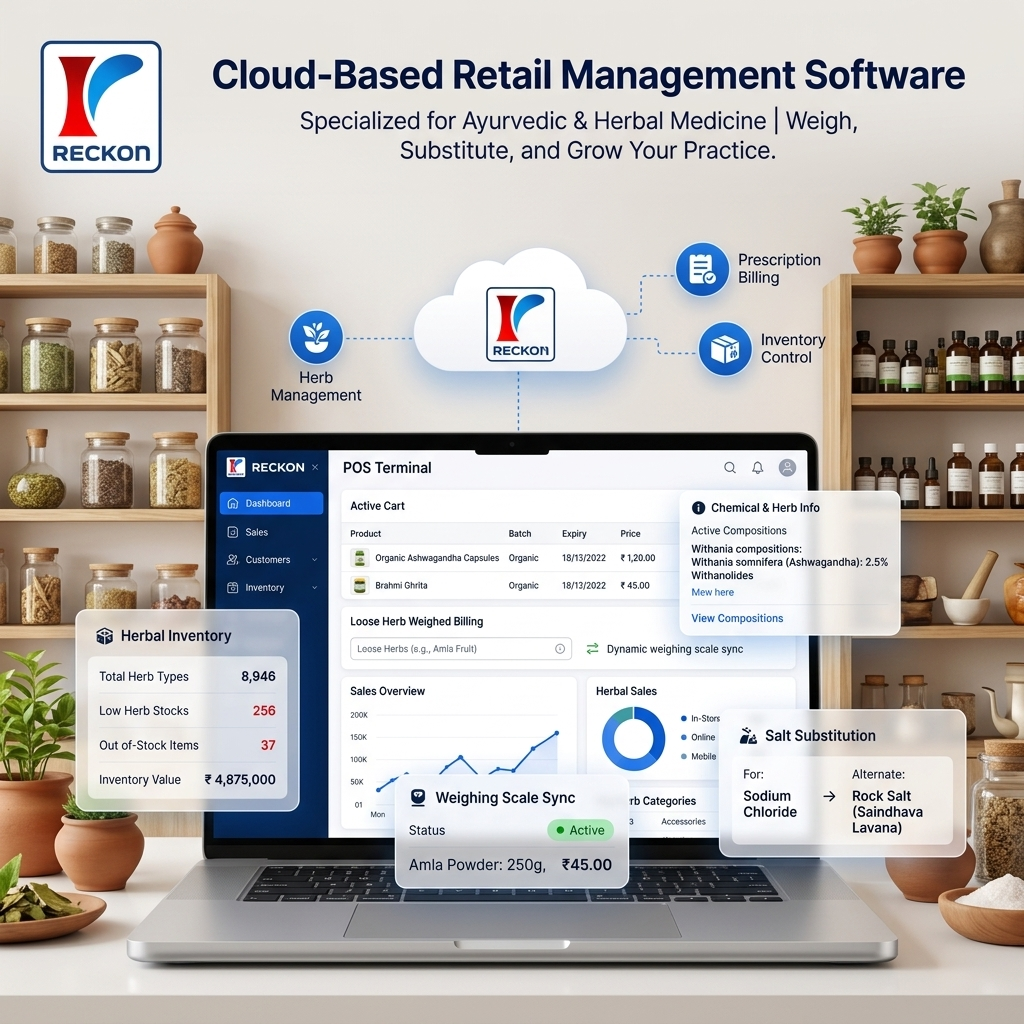
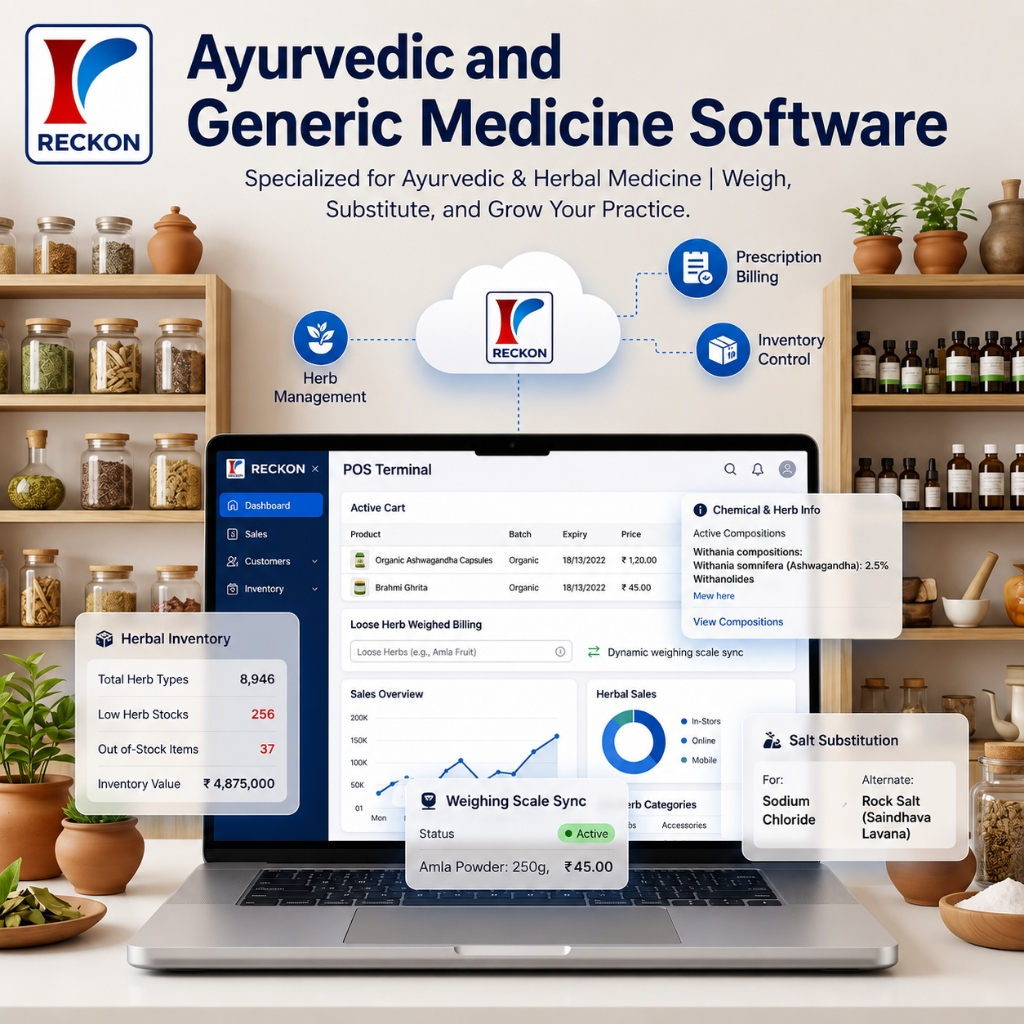
Update software hero graphics, breadcrumb formatting, and fix automatic login redirect

diff --git a/Reckon-fe/src/components/billing/BillingHeroSection.jsx b/Reckon-fe/src/components/billing/BillingHeroSection.jsx
@@ -24,6 +24,8 @@ const getHeroImage = (variant) => {
       return '/images/pharma_marketing_billing.png';
     case 'multi-branch-pharmacy':
       return '/images/multi_branch_pharmacy_billing.png';
+    case 'auto-parts':
+      return '/images/auto_parts_billing.png';
     case 'auto-parts-retailers':
       return '/images/auto_parts_retailer_billing.png';
     case 'spare-parts-dealers':
@@ -32,6 +34,8 @@ const getHeroImage = (variant) => {
       return '/images/car_accessories_billing.png';
     case 'multi-branch-auto-parts':
       return '/images/multi_branch_autoparts_billing.png';
+    case 'fmcg':
+      return '/images/fmcg_billing.png';
     case 'fmcg-distributors':
       return '/images/fmcg_distributor_billing.png';
     case 'fmcg-wholesalers':
@@ -62,9 +66,12 @@ const getHeroImage = (variant) => {
       return '/images/paint_dealers_billing.png';
     case 'multi-outlet-chain':
       return '/images/multi_outlet_chain_billing.png';
+    case 'retail':
+      return '/images/retail_billing.png';
     case 'main':
+    case 'pharmacy-healthcare':
     default:
-      return '/images/retail_pharmacy_billing.png';
+      return '/images/pharmacy_healthcare_billing.png';
   }
 };
 
@@ -148,31 +155,31 @@ export default function BillingHeroSection({ data, variant = 'main' }) {
           <div className="lg:col-span-5 space-y-6">
             {/* Breadcrumbs */}
             <nav className={cn(
-              'flex items-center gap-1.5 text-xs font-medium',
+              'flex flex-wrap items-center gap-1.5 text-xs font-medium',
               isDark ? 'text-white/50' : 'text-slate-600'
             )}>
-              <Link to="/" className="flex items-center gap-1 transition-colors hover:text-foreground">
-                <Home className="w-3 h-3" />
-                <span>Home</span>
+              <Link to="/" className="flex items-center gap-1 transition-colors hover:text-foreground shrink-0">
+                <Home className="w-3 h-3 shrink-0" />
+                <span className="whitespace-nowrap">Home</span>
               </Link>
-              <ChevronRight className={cn('w-3 h-3', isDark ? 'text-white/25' : 'text-slate-400')} />
-              <Link to="/software" className="transition-colors hover:text-foreground">Software</Link>
-              <ChevronRight className={cn('w-3 h-3', isDark ? 'text-white/25' : 'text-slate-400')} />
+              <ChevronRight className={cn('w-3 h-3 shrink-0', isDark ? 'text-white/25' : 'text-slate-400')} />
+              <Link to="/software" className="transition-colors hover:text-foreground shrink-0 whitespace-nowrap">Software</Link>
+              <ChevronRight className={cn('w-3 h-3 shrink-0', isDark ? 'text-white/25' : 'text-slate-400')} />
               {variant !== 'main' && variant !== 'auto-parts' && variant !== 'fmcg' && variant !== 'retail' && (
                 <>
                   {variant === 'auto-parts-retailers' || variant === 'spare-parts-dealers' || variant === 'car-accessories' || variant === 'multi-branch-auto-parts' ? (
-                    <Link to="/software/auto-parts" className="transition-colors hover:text-foreground">Auto-Parts Billing Software</Link>
+                    <Link to="/software/auto-parts" className="transition-colors hover:text-foreground shrink-0 whitespace-nowrap">Auto-Parts</Link>
                   ) : variant === 'fmcg-distributors' || variant === 'fmcg-wholesalers' || variant === 'fmcg-retailers' || variant === 'fmcg-companies' ? (
-                    <Link to="/software/fmcg" className="transition-colors hover:text-foreground">FMCG Billing Software</Link>
+                    <Link to="/software/fmcg" className="transition-colors hover:text-foreground shrink-0 whitespace-nowrap">FMCG</Link>
                   ) : variant === 'grocery-kirana' || variant === 'departmental-supermarket' || variant === 'garment-footwear' || variant === 'sarees-clothing' || variant === 'pharmacy-ayurvedic' || variant === 'hardware-electrical' || variant === 'books-stationary' || variant === 'school-dresses' || variant === 'gift-novelty' || variant === 'paint-dealers' || variant === 'multi-outlet-chain' ? (
-                    <Link to="/software/retail" className="transition-colors hover:text-foreground">Retail Billing Software</Link>
+                    <Link to="/software/retail" className="transition-colors hover:text-foreground shrink-0 whitespace-nowrap">Retail</Link>
                   ) : (
-                    <Link to="/software/pharmacy-healthcare" className="transition-colors hover:text-foreground">Pharmacy & Healthcare</Link>
+                    <Link to="/software/pharmacy-healthcare" className="transition-colors hover:text-foreground shrink-0 whitespace-nowrap">Pharmacy & Healthcare</Link>
                   )}
-                  <ChevronRight className={cn('w-3 h-3', isDark ? 'text-white/25' : 'text-slate-400')} />
+                  <ChevronRight className={cn('w-3 h-3 shrink-0', isDark ? 'text-white/25' : 'text-slate-400')} />
                 </>
               )}
-              <span className={cn('font-semibold', isDark ? 'text-primary-light' : 'text-primary')}>
+              <span className={cn('font-semibold shrink-0 whitespace-nowrap', isDark ? 'text-primary-light' : 'text-primary')}>
                 {data.title}
               </span>
             </nav>
@@ -242,8 +249,11 @@ export default function BillingHeroSection({ data, variant = 'main' }) {
 
           {/* Right: Multi-device mockup or Uploaded Image */}
           <div className="lg:col-span-7 relative flex justify-center lg:justify-end w-full">
-            {variant !== 'main' && variant !== 'auto-parts' && variant !== 'fmcg' && variant !== 'retail' ? (
-              <div className="relative w-full max-w-[720px] lg:translate-x-12 xl:translate-x-16">
+            {true ? (
+              <div className={cn(
+                "relative w-full transition-all duration-500",
+                variant === 'fmcg-retailers' || variant === 'fmcg-companies' || variant === 'retail-pharmacies' || variant === 'multi-branch-auto-parts' || variant === 'multi-branch-pharmacy' || variant === 'multi-outlet-chain' ? "max-w-[740px]" : "max-w-[490px]"
+              )}>
                 {/* Outer glow ring */}
                 <div className={cn(
                   "absolute -inset-3 bg-gradient-to-r rounded-3xl blur-2xl opacity-60",
@@ -260,7 +270,7 @@ export default function BillingHeroSection({ data, variant = 'main' }) {
 
                 {/* Showcase Image */}
                 <div className={cn(
-                  "relative rounded-3xl border shadow-2xl p-2 overflow-hidden transition-all duration-500",
+                  "relative rounded-3xl border shadow-2xl p-2 overflow-hidden transition-all duration-500 w-full",
                   isDark
                     ? "bg-[#161228]/40 border-white/8"
                     : "bg-white/45 border-white/60 backdrop-blur"
@@ -268,7 +278,7 @@ export default function BillingHeroSection({ data, variant = 'main' }) {
                   <img
                     src={getHeroImage(variant)}
                     alt={`Reckon ${data.title} Dashboard`}
-                    className="rounded-2xl w-full object-contain hover:scale-[1.01] transition-transform duration-700 shadow-md"
+                    className="rounded-2xl w-full h-auto object-contain hover:scale-[1.01] transition-transform duration-700 shadow-md"
                   />
                 </div>
               </div>

diff --git a/Reckon-fe/src/pages/BillingSoftwarePage.jsx b/Reckon-fe/src/pages/BillingSoftwarePage.jsx
@@ -725,99 +725,15 @@ function FeaturesAtGlanceSection({ color, variant }) {
             ))}
           </div>
 
-          {/* Sticky Side Phone Mockup with HTML/CSS Reckon Screen */}
+          {/* Sticky Side Phone Mockup with Reckon Mobile App Screen */}
           <div className="hidden lg:block relative h-full">
             <div className="sticky top-28 flex justify-center w-full">
-              <div className="relative rounded-[2.5rem] overflow-hidden border-8 border-slate-900 dark:border-slate-800 bg-[#0F172A] shadow-2xl transition-transform duration-500 hover:scale-[1.02] max-w-[280px] w-full aspect-[9/19] p-0 flex flex-col justify-between">
-
-                {/* Phone speaker notch (iPhone Style) */}
-                <div className="absolute top-2.5 left-1/2 -translate-x-1/2 w-20 h-4 rounded-full bg-black flex items-center justify-center z-30 pointer-events-none">
-                  <div className="w-1.5 h-1.5 rounded-full bg-slate-900 mr-2" />
-                  <div className="w-8 h-1 rounded-full bg-slate-800" />
-                </div>
-
-                {/* Status Bar */}
-                <div className="bg-slate-950 pt-7 pb-1.5 px-3 flex justify-between items-center text-[7px] text-slate-300 font-semibold select-none z-20">
-                  <span>12:30</span>
-                  <div className="flex items-center gap-1">
-                    <span>📶</span>
-                    <span>🔋</span>
-                  </div>
-                </div>
-
-                {/* Reckon Navigation Bar */}
-                <div className="bg-slate-900 border-b border-slate-800 py-2.5 px-3.5 text-slate-100 z-20 flex justify-between items-center select-none">
-                  <div className="flex items-center gap-1.5">
-                    <Menu className="w-3.5 h-3.5 text-slate-300 hover:text-white cursor-pointer" />
-                    <span className="text-[11px] font-black tracking-tight text-white">Reckon</span>
-                  </div>
-                  <div className="flex items-center gap-2 text-slate-300">
-                    <Search className="w-3.5 h-3.5 hover:text-white cursor-pointer" />
-                    {/* RFID / Wireless Scanner gun icon */}
-                    <div className="flex items-center justify-center w-4 h-4 hover:text-white cursor-pointer">
-                      <svg className="w-3.5 h-3.5 text-slate-300" fill="none" viewBox="0 0 24 24" stroke="currentColor" strokeWidth="2.5">
-                        <path strokeLinecap="round" strokeLinejoin="round" d="M19 11a7.5 7.5 0 01-10 0m7.5-3a4.5 4.5 0 01-5 0M12 12v3" />
-                      </svg>
-                    </div>
-                    <Barcode className="w-3.5 h-3.5 hover:text-white cursor-pointer" />
-                    <RefreshCw className="w-3 h-3 hover:text-white cursor-pointer" />
-                  </div>
-                </div>
-
-                {/* Category Tabs (Horizontal Scrollable) */}
-                <div className="bg-white border-b border-slate-100 py-2 px-3 overflow-x-auto scrollbar-none flex gap-4 whitespace-nowrap z-20 select-none">
-                  {pageData.tabs.map((tab, idx) => (
-                    <span
-                      key={idx}
-                      className={cn(
-                        "text-[8px] font-extrabold pb-0.5 px-0.5 transition-all duration-300 cursor-pointer relative",
-                        idx === 0
-                          ? "text-blue-600 after:absolute after:bottom-0 after:left-0 after:right-0 after:h-[2px] after:bg-blue-600"
-                          : "text-slate-400 hover:text-slate-600"
-                      )}
-                    >
-                      {tab}
-                    </span>
-                  ))}
-                </div>
-
-                {/* Main Product Grid Container */}
-                <div className="flex-1 bg-slate-50 p-2 overflow-y-auto scrollbar-none z-10">
-                  <div className="grid grid-cols-3 gap-1.5">
-                    {pageData.items.map((item, idx) => {
-                      const ProductIcon = item.icon;
-                      return (
-                        <div
-                          key={idx}
-                          className="bg-white rounded-lg border border-slate-200/55 shadow-[0_1px_2px_rgba(0,0,0,0.02)] flex flex-col justify-between overflow-hidden transition-all duration-300 hover:shadow-md hover:border-slate-300/80 h-[76px]"
-                        >
-                          {/* Icon Container */}
-                          <div className="flex-1 flex items-center justify-center p-1.5">
-                            <div className="w-7 h-7 rounded-full flex items-center justify-center transition-transform duration-300 hover:scale-105" style={{ backgroundColor: `${item.color}15` }}>
-                              <ProductIcon className="w-4 h-4" style={{ color: item.color }} />
-                            </div>
-                          </div>
-                          {/* Product Title */}
-                          <span className="text-[6.5px] font-bold text-slate-800 text-center px-1 mb-1 line-clamp-2 leading-tight h-5 flex items-center justify-center">
-                            {item.name}
-                          </span>
-                          {/* Price Banner */}
-                          <div className="bg-[#6b7c96]/95 text-white text-[6.5px] font-bold text-center py-1 select-none leading-none">
-                            {item.price}
-                          </div>
-                        </div>
-                      );
-                    })}
-                  </div>
-                </div>
-
-                {/* Bottom Footer "Go to Cart" Button */}
-                <div className="bg-white border-t border-slate-100 p-2 z-20">
-                  <div className="bg-[#eef2ff] hover:bg-[#e0e7ff] active:bg-[#c7d2fe] transition-colors border border-[#e0e7ff] rounded-md py-1.5 text-center text-[8.5px] font-black text-indigo-600 cursor-pointer shadow-sm">
-                    Go to Cart
-                  </div>
-                </div>
-
+              <div className="relative max-w-[285px] w-full transition-transform duration-500 hover:scale-[1.02] drop-shadow-2xl">
+                <img
+                  src="/images/reckon_mobile_app.png"
+                  alt="Reckon Software Mobile App"
+                  className="w-full h-auto object-contain rounded-[2.5rem]"
+                />
               </div>
             </div>
           </div>

diff --git a/Reckon-fe/src/components/home/BannerSliderSection.jsx b/Reckon-fe/src/components/home/BannerSliderSection.jsx
@@ -176,9 +176,9 @@ export default function BannerSliderSection() {
             loading="eager"
           />
 
-          {/* Bottom Right "More" Action Button */}
+          {/* Bottom Left "More" Action Button */}
           {currentBanner.redirect_path && (
-            <div className="absolute bottom-6 right-6 sm:bottom-10 sm:right-12 z-20 flex items-center gap-4">
+            <div className="absolute bottom-3 left-6 sm:bottom-4 sm:left-12 z-20 flex items-center gap-4">
               <motion.div
                 initial={{ scale: 0.9, opacity: 0 }}
                 animate={{ scale: 1, opacity: 1 }}
@@ -186,10 +186,10 @@ export default function BannerSliderSection() {
               >
                 <Link
                   to={currentBanner.redirect_path}
-                  className="inline-flex items-center gap-2 px-6 py-3 rounded-xl bg-slate-900 hover:bg-slate-800 text-white dark:bg-white dark:hover:bg-slate-100 dark:text-slate-950 font-black text-xs uppercase tracking-wider shadow-xl hover:shadow-2xl transition-all duration-300 active:scale-95 border border-white/10"
+                  className="inline-flex items-center gap-2.5 px-8 py-3.5 sm:px-10 sm:py-4 rounded-2xl bg-slate-900/80 hover:bg-slate-900/95 text-white dark:bg-white/80 dark:hover:bg-white/95 dark:text-slate-950 backdrop-blur-md font-black text-sm sm:text-base uppercase tracking-wider shadow-2xl transition-all duration-300 active:scale-95 border border-white/20"
                 >
                   <span>More</span>
-                  <ArrowRight className="w-3.5 h-3.5 transition-transform group-hover/banner:translate-x-1" />
+                  <ArrowRight className="w-5 h-5 transition-transform group-hover/banner:translate-x-1" />
                 </Link>
               </motion.div>
             </div>

diff --git a/Reckon-fe/src/hooks/useAdmin.jsx b/Reckon-fe/src/hooks/useAdmin.jsx
@@ -42,17 +42,22 @@ export function AdminProvider({ children }) {
     return '';
   });
 
-  // Periodically check token expiry (every 5 minutes)
+  // Periodically check token expiry (every 5 minutes) for logged-in admin sessions
   useEffect(() => {
     const interval = setInterval(() => {
       const token = localStorage.getItem('reckon-access-token');
-      if (isTokenExpired(token)) {
+      const isAuth = localStorage.getItem('reckon-admin-auth') === 'true';
+
+      // Only check expiry if a token/auth session actually exists
+      if (isAuth && token && isTokenExpired(token)) {
         localStorage.removeItem('reckon-access-token');
         localStorage.removeItem('reckon-admin-auth');
         localStorage.removeItem('reckon-admin-current-user');
         setIsAdmin(false);
         setCurrentUser('');
-        if (window.location.pathname !== '/login') {
+
+        // Only redirect to login if user is currently trying to access admin pages
+        if (window.location.pathname.startsWith('/admin')) {
           window.location.href = '/login';
         }
       }
